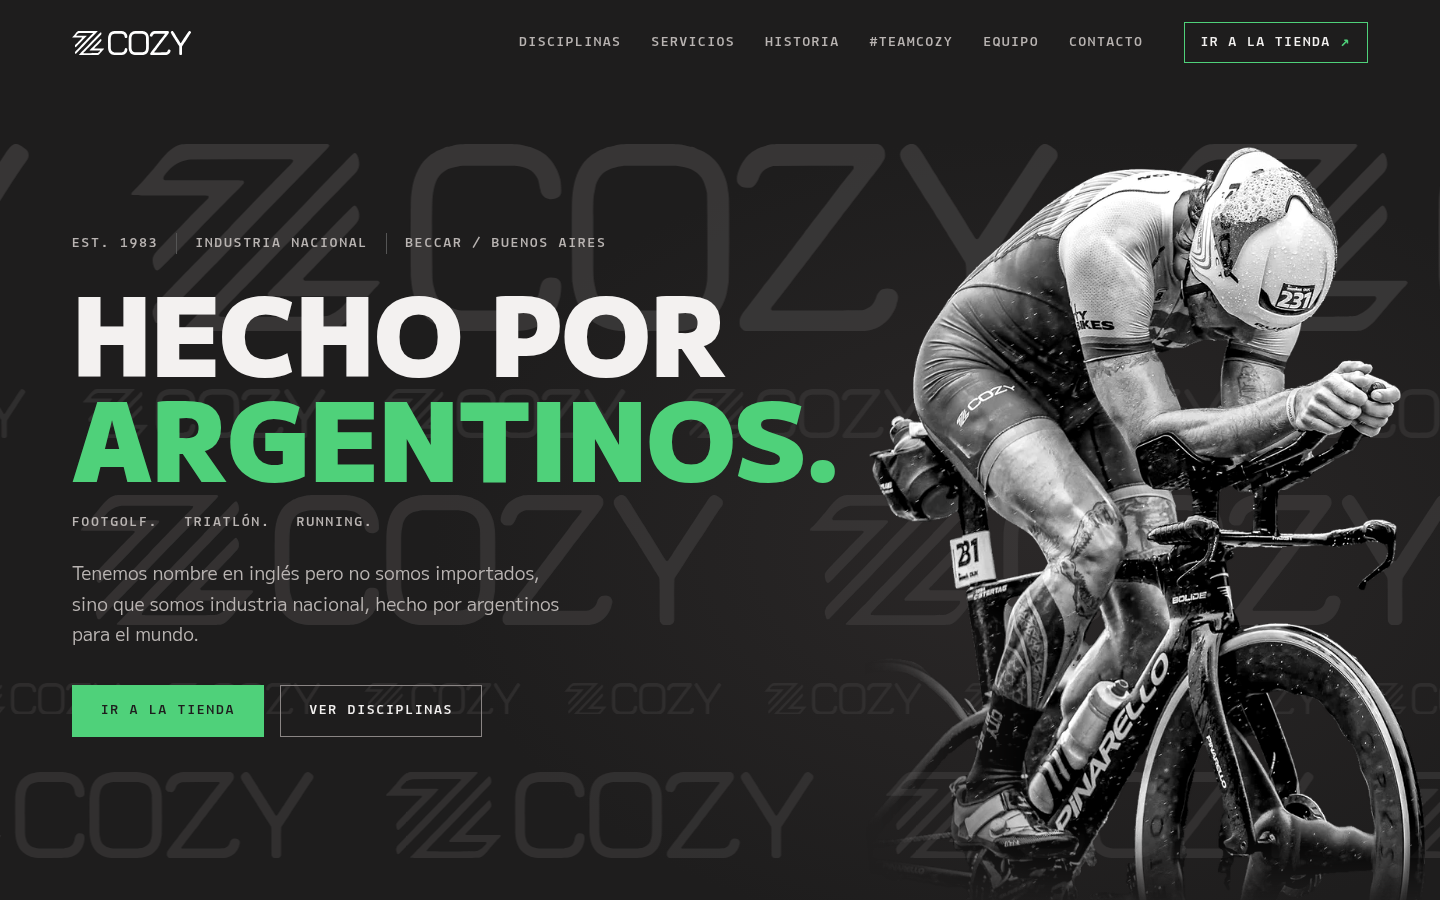
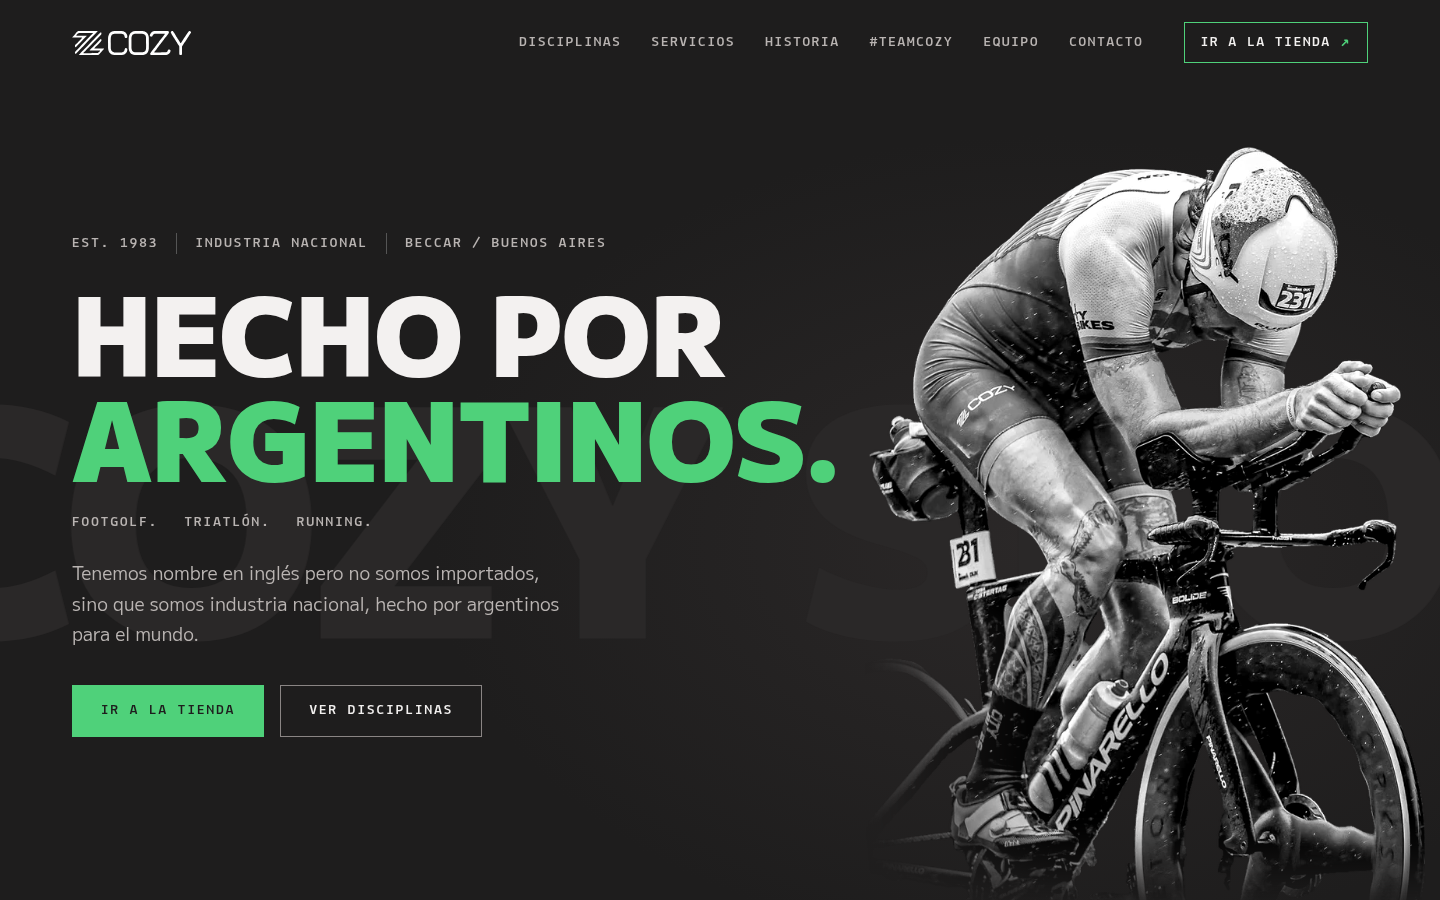
Hero: vuelve la marquesina original 'Cozy Sport — Desde 1983', un poco más clara (#2a2828) (v=202610261300)

diff --git a/index.html b/index.html
@@ -19,7 +19,7 @@
 <link rel="preload" href="assets/fonts/cozy-mplus2-black-outline.woff2" as="font" type="font/woff2" crossorigin>
 <link href="https://fonts.googleapis.com/css2?family=M+PLUS+2:wght@400;500;700;900&family=Lekton:wght@400;700&display=swap" rel="stylesheet">
 <link rel="preload" as="image" href="assets/cozy-triatleta-cutout.webp">
-<link rel="stylesheet" href="styles.css?v=202610261255">
+<link rel="stylesheet" href="styles.css?v=202610261300">
 <script>(function(d){var h=d.documentElement;h.className+=' js anim';setTimeout(function(){if(!window.__cozyAnim)h.className=h.className.replace(/\banim\b/,'')},2500)})(document)</script>
 </head>
 <body id="top">
@@ -43,13 +43,7 @@
 
 <!-- PORTADA -->
 <section class="hero" aria-labelledby="hero-title">
-  <div class="logofield" aria-hidden="true">
-    <div class="marquee marquee--logo lr--xl" data-dir="-1" data-speed="0.04"><div class="marquee__track"><span class="marquee__unit"><img src="assets/cozy-wordmark-marquee.svg?v=202610261255" alt="" width="3270" height="660" decoding="async"><img src="assets/cozy-wordmark-marquee.svg?v=202610261255" alt="" width="3270" height="660" decoding="async"><img src="assets/cozy-wordmark-marquee.svg?v=202610261255" alt="" width="3270" height="660" decoding="async"></span></div></div>
-    <div class="marquee marquee--logo lr--s" data-dir="1" data-speed="0.026"><div class="marquee__track"><span class="marquee__unit"><img src="assets/cozy-wordmark-marquee.svg?v=202610261255" alt="" width="3270" height="660" decoding="async"><img src="assets/cozy-wordmark-marquee.svg?v=202610261255" alt="" width="3270" height="660" decoding="async"><img src="assets/cozy-wordmark-marquee.svg?v=202610261255" alt="" width="3270" height="660" decoding="async"></span></div></div>
-    <div class="marquee marquee--logo lr--l" data-dir="-1" data-speed="0.032"><div class="marquee__track"><span class="marquee__unit"><img src="assets/cozy-wordmark-marquee.svg?v=202610261255" alt="" width="3270" height="660" decoding="async"><img src="assets/cozy-wordmark-marquee.svg?v=202610261255" alt="" width="3270" height="660" decoding="async"><img src="assets/cozy-wordmark-marquee.svg?v=202610261255" alt="" width="3270" height="660" decoding="async"></span></div></div>
-    <div class="marquee marquee--logo lr--xs" data-dir="1" data-speed="0.02"><div class="marquee__track"><span class="marquee__unit"><img src="assets/cozy-wordmark-marquee.svg?v=202610261255" alt="" width="3270" height="660" decoding="async"><img src="assets/cozy-wordmark-marquee.svg?v=202610261255" alt="" width="3270" height="660" decoding="async"><img src="assets/cozy-wordmark-marquee.svg?v=202610261255" alt="" width="3270" height="660" decoding="async"></span></div></div>
-    <div class="marquee marquee--logo lr--m" data-dir="-1" data-speed="0.036"><div class="marquee__track"><span class="marquee__unit"><img src="assets/cozy-wordmark-marquee.svg?v=202610261255" alt="" width="3270" height="660" decoding="async"><img src="assets/cozy-wordmark-marquee.svg?v=202610261255" alt="" width="3270" height="660" decoding="async"><img src="assets/cozy-wordmark-marquee.svg?v=202610261255" alt="" width="3270" height="660" decoding="async"></span></div></div>
-  </div>
+  <div class="marquee" aria-hidden="true"><div class="marquee__track"><span>Cozy Sport — Desde 1983 — </span><span>Cozy Sport — Desde 1983 — </span></div></div>
   <div class="hero__text">
     <p class="meta"><span>Est. 1983</span><span>Industria nacional</span><span>Beccar / Buenos Aires</span></p>
     <h1 id="hero-title" class="display hero__title">Hecho por<br><em>argentinos</em><span class="dot">.</span></h1>
@@ -67,7 +61,7 @@
 
 <!-- 01 NOSOTROS -->
 <section class="sec about" id="nosotros" aria-labelledby="about-title">
-  <img class="ghost-art" src="assets/ghost-desde-1983.svg?v=202610261255" alt="" aria-hidden="true" width="1745" height="219" decoding="async">
+  <img class="ghost-art" src="assets/ghost-desde-1983.svg?v=202610261300" alt="" aria-hidden="true" width="1745" height="219" decoding="async">
   <div class="about__grid">
     <div >
       <p class="num">01</p>
@@ -176,7 +170,7 @@
 
 <!-- 05 TEAM COZY -->
 <section class="sec team-cozy" id="teamcozy" aria-labelledby="ath-title">
-  <img class="ghost-art" src="assets/ghost-teamcozy.svg?v=202610261255" alt="" aria-hidden="true" width="1903" height="219" decoding="async">
+  <img class="ghost-art" src="assets/ghost-teamcozy.svg?v=202610261300" alt="" aria-hidden="true" width="1903" height="219" decoding="async">
   <p class="num">05</p>
   <h2 id="ath-title" class="display h2">Conocé a los que<br><em>transpiran</em><span class="dot">.</span></h2>
   <p class="sec__lead">Estos son los deportistas que nos representan.</p>
@@ -281,6 +275,6 @@
   </div>
   <div class="foot__bar"><p>© <span id="y">2026</span> Cozy Sport SA</p><p>Industria nacional desde 1983</p><a href="#top">Volver arriba ↑</a></div>
 </footer>
-<script src="main.js?v=202610261255" defer></script>
+<script src="main.js?v=202610261300" defer></script>
 </body>
 </html>

diff --git a/main.js b/main.js
@@ -128,38 +128,17 @@
   addEventListener('scroll', () => { if (!ticking) { ticking = true; requestAnimationFrame(onScroll); } }, { passive: true });
   onScroll();
 
-  /* ---------- Marquesinas (requestAnimationFrame; dirección y velocidad por fila) ---------- */
-  const marquees = $$('.marquee__track').map(el => {
-    const row = el.parentElement;
-    return { el, row, x: 0, w: 0, dir: +(row.dataset.dir || -1), v: +(row.dataset.speed || 0.045), init: false };
-  });
-  const measure = () => marquees.forEach(m => {
-    const unit = m.el.firstElementChild;
-    // Filas de logos: la unidad tiene que cubrir el ancho de la pantalla y se duplica una vez
-    if (m.row.classList.contains('marquee--logo')) {
-      [...m.el.children].slice(1).forEach(c => c.remove());
-      const imgs = [...unit.children], first = imgs[0];
-      const step = first.getBoundingClientRect().width + parseFloat(getComputedStyle(first).marginRight || 0);
-      if (step > 0) {
-        const need = Math.ceil(innerWidth / step) + 1;
-        while (unit.children.length > need && unit.children.length > 1) unit.lastElementChild.remove();
-        while (unit.children.length < need) unit.appendChild(first.cloneNode(true));
-      }
-      m.el.appendChild(unit.cloneNode(true));
-    }
-    m.w = unit.getBoundingClientRect().width;
-    if (m.w && !m.init) { m.init = true; m.x = m.dir > 0 ? -m.w * 0.5 : -m.w * 0.25; }
-  });
+  /* ---------- Marquesinas (requestAnimationFrame, derecha → izquierda) ---------- */
+  const marquees = $$('.marquee__track').map(el => ({ el, x: 0, w: 0 }));
+  const measure = () => marquees.forEach(m => { m.w = m.el.firstElementChild.getBoundingClientRect().width; });
   measure(); addEventListener('resize', measure); addEventListener('load', measure);
-  $$('.marquee--logo img').forEach(im => im.complete || im.addEventListener('load', measure, { once: true }));
   let last = performance.now();
   const loop = now => {
     const dt = Math.min(64, now - last); last = now;
     marquees.forEach(m => {
       if (!m.w) return;
-      m.x += m.dir * dt * m.v; // px por ms
-      if (m.x <= -m.w) m.x += m.w;
-      if (m.x > 0) m.x -= m.w;
+      m.x -= dt * 0.045; // px por ms
+      if (-m.x >= m.w) m.x += m.w;
       m.el.style.transform = `translate3d(${m.x.toFixed(2)}px,0,0)`;
     });
     requestAnimationFrame(loop);

diff --git a/styles.css b/styles.css
@@ -203,18 +203,8 @@ em{font-style:normal;color:var(--green)}
 /* Marquee */
 .marquee{position:absolute;left:0;right:0;top:50%;translate:0 -50%;z-index:0;overflow:hidden;pointer-events:none;user-select:none}
 .marquee__track{display:flex;width:max-content;will-change:transform}
-.marquee span{font:900 clamp(160px,22vw,340px)/1 var(--display);text-transform:uppercase;letter-spacing:-.02em;color:#232121;white-space:nowrap;padding-right:.3em}
+.marquee span{font:900 clamp(160px,22vw,340px)/1 var(--display);text-transform:uppercase;letter-spacing:-.02em;color:#2a2828;white-space:nowrap;padding-right:.3em}
 .marquee--cta span{color:#232121}
-/* Fondo del hero: logo Cozy real en filas de distintos tamaños */
-.logofield{position:absolute;inset:0;z-index:0;display:flex;flex-direction:column;justify-content:space-evenly;overflow:hidden;pointer-events:none;user-select:none}
-.logofield .marquee{position:relative;top:auto;translate:none;left:auto;right:auto;flex:none}
-.marquee--logo .marquee__unit{display:flex;align-items:center;padding:0;font-size:0;line-height:0}
-.marquee--logo img{display:block;height:var(--lh);width:auto;max-width:none;margin-right:var(--lg)}
-.lr--xl{--lh:clamp(92px,13vw,210px);--lg:clamp(60px,7vw,120px);opacity:.32}
-.lr--l{--lh:clamp(70px,9vw,150px);--lg:clamp(50px,6vw,100px);opacity:.38}
-.lr--m{--lh:clamp(48px,6vw,96px);--lg:clamp(40px,5vw,80px);opacity:.42}
-.lr--s{--lh:clamp(30px,3.4vw,56px);--lg:clamp(32px,4vw,64px);opacity:.45}
-.lr--xs{--lh:clamp(22px,2.2vw,36px);--lg:clamp(28px,3vw,52px);opacity:.45}
 .hero__fig{will-change:transform;transform:translate3d(0,var(--py,0px),0)}
 
 /* Animaciones (con JS activo; sin JS todo queda visible) */
